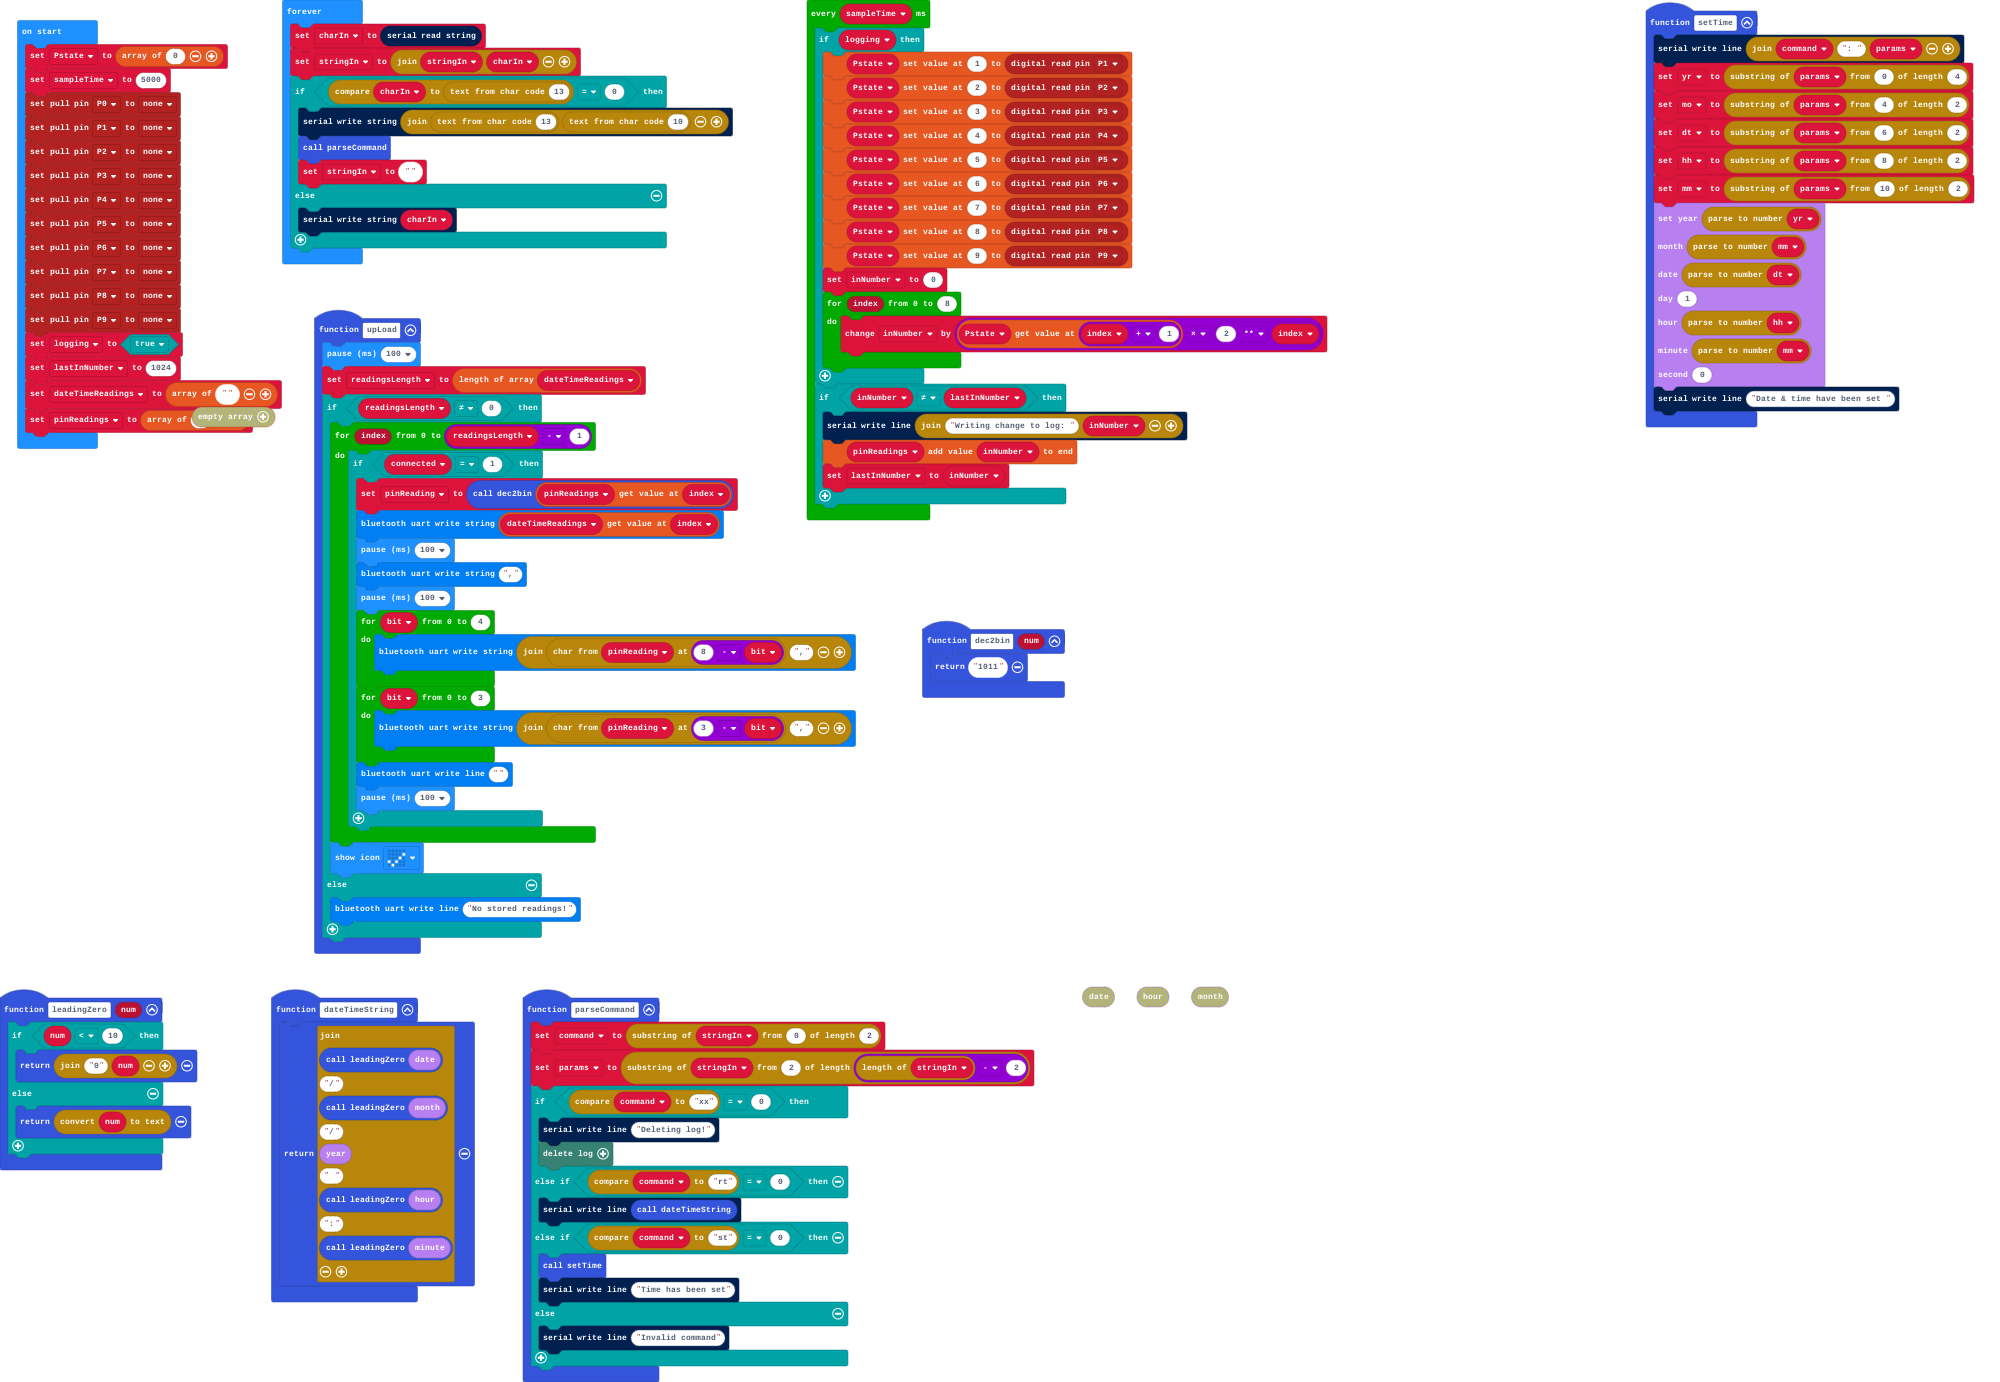
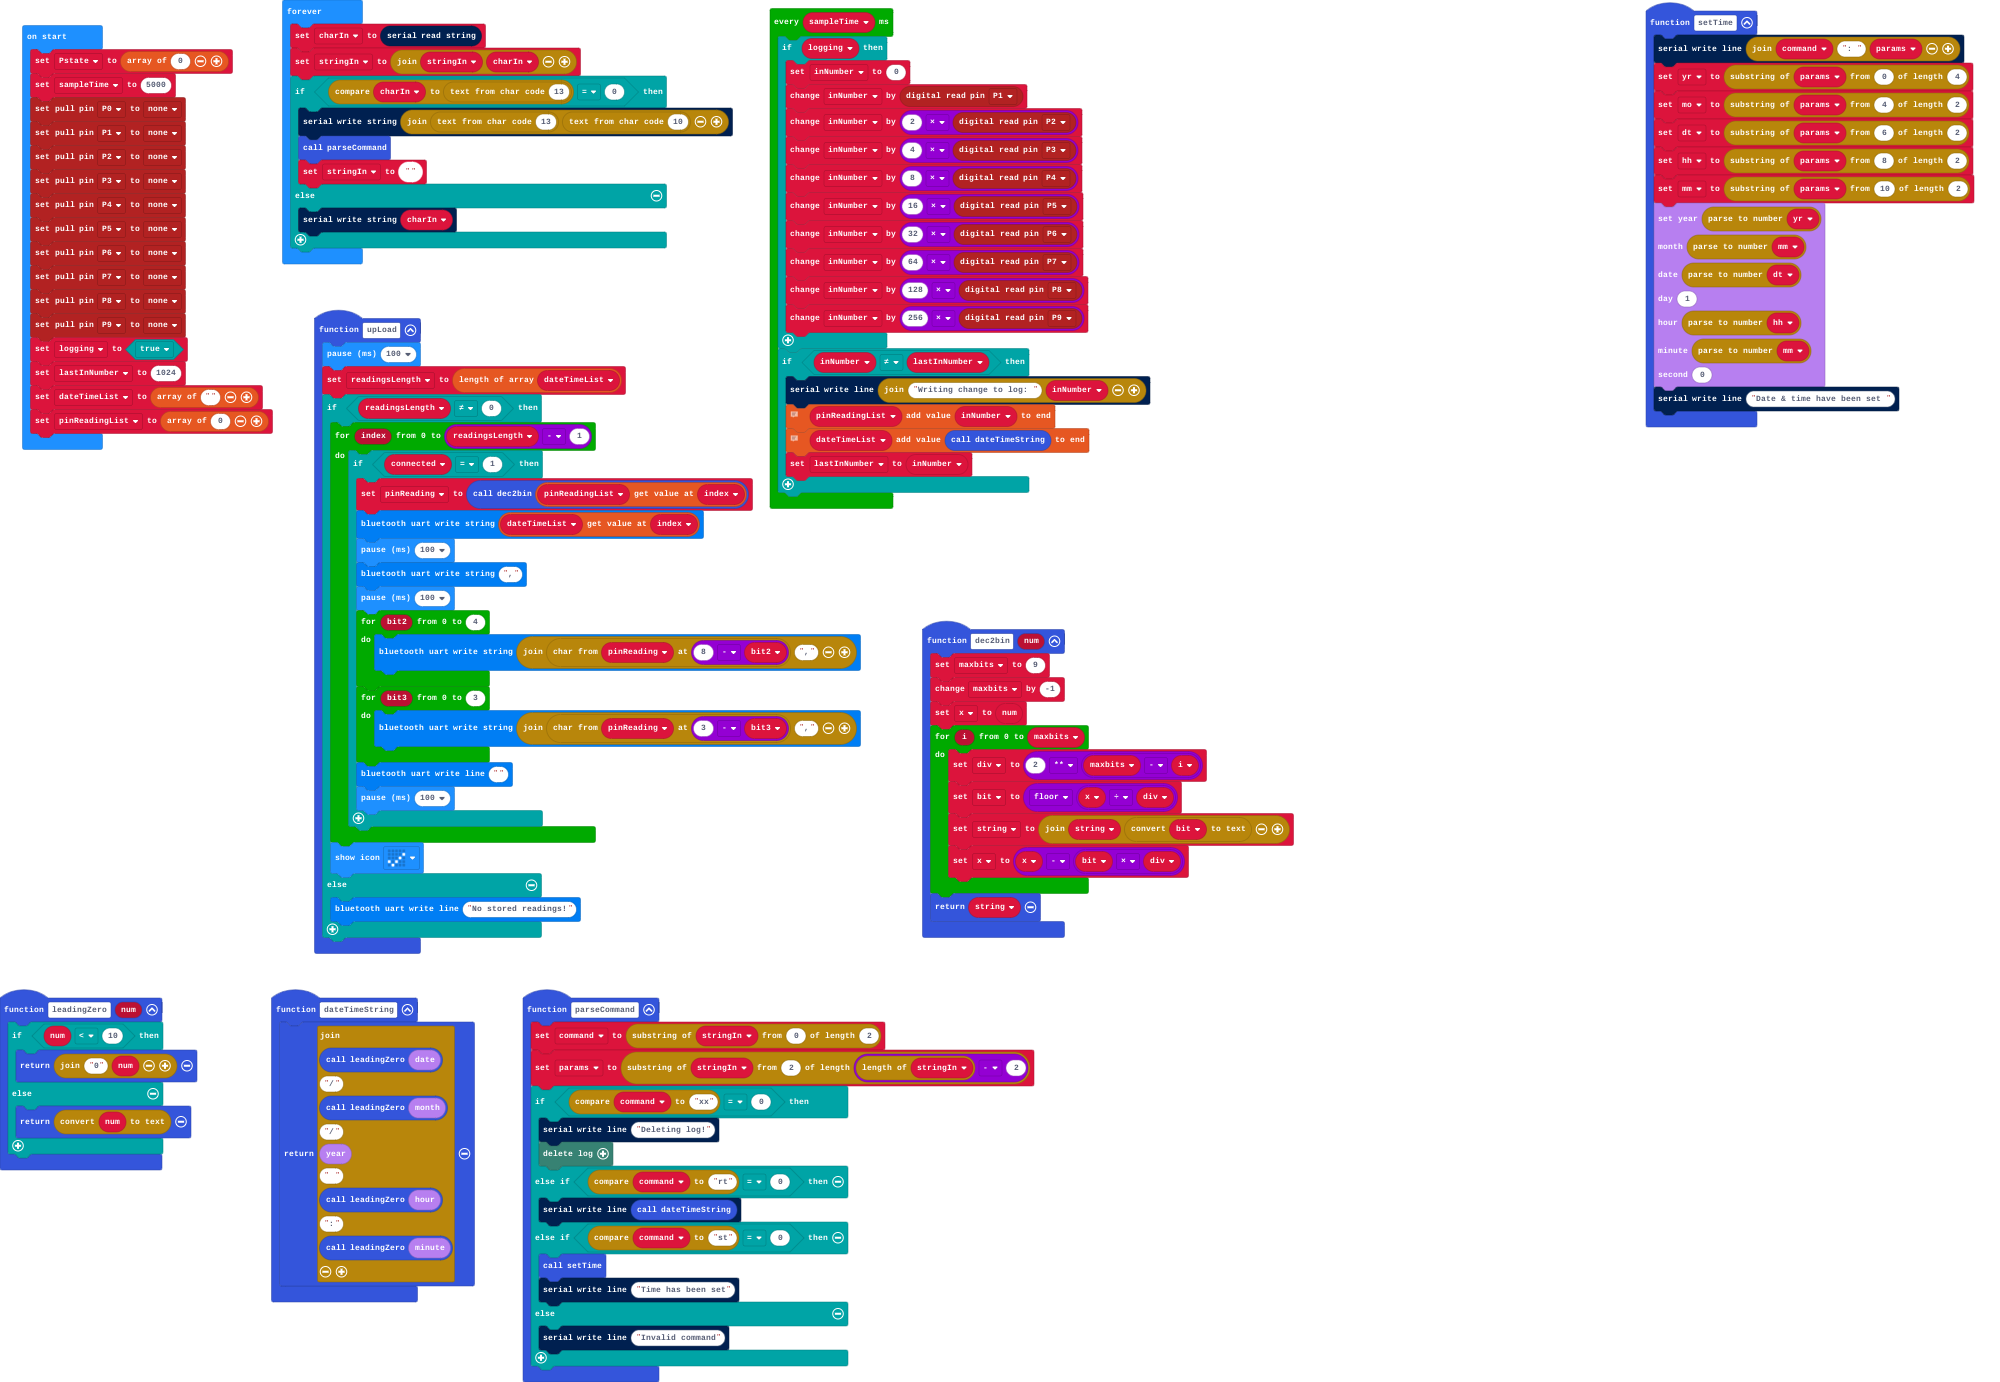
done dec2bin

diff --git a/main.ts b/main.ts
@@ -14,7 +14,16 @@ function parseCommand () {
     }
 }
 function dec2bin (num: number) {
-    return "1011"
+    maxbits = 9
+    maxbits += -1
+    x = num
+    for (let i = 0; i <= maxbits; i++) {
+        div = 2 ** (maxbits - i)
+        bit = Math.floor(x / div)
+        string = "" + string + convertToText(bit)
+        x = x - bit * div
+    }
+    return string
 }
 function leadingZero (num: number) {
     if (num < 10) {
@@ -25,21 +34,21 @@ function leadingZero (num: number) {
 }
 function upLoad () {
     basic.pause(100)
-    readingsLength = dateTimeReadings.length
+    readingsLength = dateTimeList.length
     if (readingsLength != 0) {
         for (let index = 0; index <= readingsLength - 1; index++) {
             let connected = 0
             if (connected == 1) {
-                pinReading = dec2bin(pinReadings[index])
-                bluetooth.uartWriteString(dateTimeReadings[index])
+                pinReading = dec2bin(pinReadingList[index])
+                bluetooth.uartWriteString(dateTimeList[index])
                 basic.pause(100)
                 bluetooth.uartWriteString(",")
                 basic.pause(100)
-                for (let bit = 0; bit <= 4; bit++) {
-                    bluetooth.uartWriteString("" + pinReading.charAt(8 - bit) + ",")
+                for (let bit2 = 0; bit2 <= 4; bit2++) {
+                    bluetooth.uartWriteString("" + pinReading.charAt(8 - bit2) + ",")
                 }
-                for (let bit = 0; bit <= 3; bit++) {
-                    bluetooth.uartWriteString("" + pinReading.charAt(3 - bit) + ",")
+                for (let bit3 = 0; bit3 <= 3; bit3++) {
+                    bluetooth.uartWriteString("" + pinReading.charAt(3 - bit3) + ",")
                 }
                 bluetooth.uartWriteLine("")
                 basic.pause(100)
@@ -80,11 +89,16 @@ let mo = ""
 let yr = ""
 let pinReading = ""
 let readingsLength = 0
+let string = ""
+let bit = 0
+let div = 0
+let x = 0
+let maxbits = 0
 let params = ""
 let stringIn = ""
 let command = ""
-let pinReadings: number[] = []
-let dateTimeReadings: string[] = []
+let pinReadingList: number[] = []
+let dateTimeList: string[] = []
 let Pstate = [0]
 let sampleTime = 5000
 pins.setPull(DigitalPin.P0, PinPullMode.PullNone)
@@ -99,8 +113,8 @@ pins.setPull(DigitalPin.P8, PinPullMode.PullNone)
 pins.setPull(DigitalPin.P9, PinPullMode.PullNone)
 let logging = true
 let lastInNumber = 1024
-dateTimeReadings = [""]
-pinReadings = [0]
+dateTimeList = [""]
+pinReadingList = [0]
 basic.forever(function () {
     charIn = serial.readString()
     stringIn = "" + stringIn + charIn
@@ -114,23 +128,23 @@ basic.forever(function () {
 })
 loops.everyInterval(sampleTime, function () {
     if (logging) {
-        Pstate[1] = pins.digitalReadPin(DigitalPin.P1)
-        Pstate[2] = pins.digitalReadPin(DigitalPin.P2)
-        Pstate[3] = pins.digitalReadPin(DigitalPin.P3)
-        Pstate[4] = pins.digitalReadPin(DigitalPin.P4)
-        Pstate[5] = pins.digitalReadPin(DigitalPin.P5)
-        Pstate[6] = pins.digitalReadPin(DigitalPin.P6)
-        Pstate[7] = pins.digitalReadPin(DigitalPin.P7)
-        Pstate[8] = pins.digitalReadPin(DigitalPin.P8)
-        Pstate[9] = pins.digitalReadPin(DigitalPin.P9)
         inNumber = 0
-        for (let index = 0; index <= 8; index++) {
-            inNumber += Pstate[index + 1] * 2 ** index
-        }
+        inNumber += pins.digitalReadPin(DigitalPin.P1)
+        inNumber += 2 * pins.digitalReadPin(DigitalPin.P2)
+        inNumber += 4 * pins.digitalReadPin(DigitalPin.P3)
+        inNumber += 8 * pins.digitalReadPin(DigitalPin.P4)
+        inNumber += 16 * pins.digitalReadPin(DigitalPin.P5)
+        inNumber += 32 * pins.digitalReadPin(DigitalPin.P6)
+        inNumber += 64 * pins.digitalReadPin(DigitalPin.P7)
+        inNumber += 128 * pins.digitalReadPin(DigitalPin.P8)
+        inNumber += 256 * pins.digitalReadPin(DigitalPin.P9)
     }
     if (inNumber != lastInNumber) {
         serial.writeLine("Writing change to log: " + inNumber)
-        pinReadings.push(inNumber)
+        // store pin state
+        pinReadingList.push(inNumber)
+        // store timestamp
+        dateTimeList.push(dateTimeString())
         lastInNumber = inNumber
     }
 })
